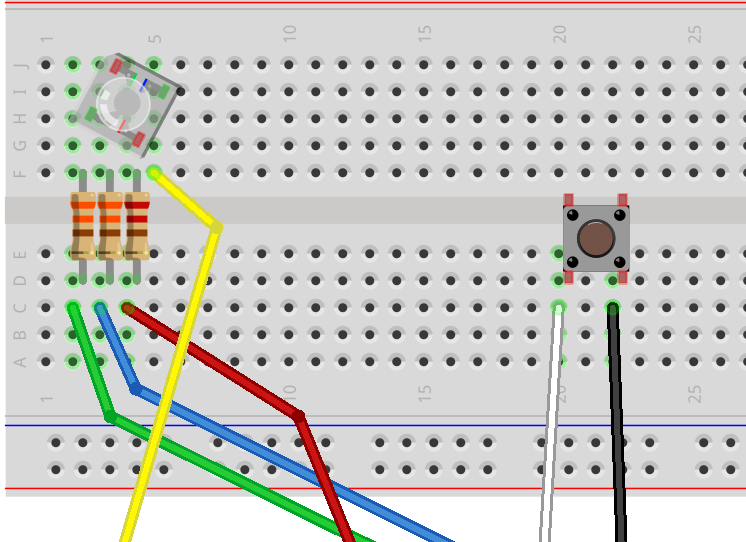
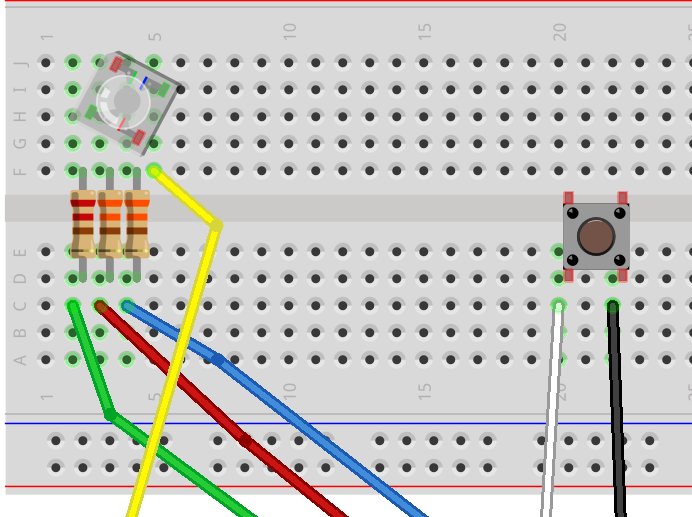
UPDATE:  Cleanup images/instructions

diff --git a/raspberry-pi/iot-core/ThatPiSample/ThatPiSample/Services/BeaconService.cs b/raspberry-pi/iot-core/ThatPiSample/ThatPiSample/Services/BeaconService.cs
@@ -38,6 +38,8 @@ namespace ThatPiSample.Services
             _watcher = new BluetoothLEAdvertisementWatcher()
             {
                 ScanningMode = BluetoothLEScanningMode.Passive,
+                // EXPLORE: Are there other useful properties here you could set
+                //          to control how sensitive your device is?
             };
             _watcher.Received += Receive_Watcher_Notification;
             _watcher.Stopped += _watcher_Stopped;

diff --git a/raspberry-pi/iot-core/ThatPiSample/README.md b/raspberry-pi/iot-core/ThatPiSample/README.md
@@ -16,8 +16,8 @@ start with the 'Software Geek' path.
 ## Building the Hardware
 Take a moment to review the supplies you received.  You should have the following parts:
 
-* 1 - 220Ω Resistor [larger] (red, red, brown, gold)
-* 2 - 330Ω Resistors [smaller] (orange, orange, brown, gold)
+* 2 - 220Ω Resistors [larger] (red, red, brown, gold)
+* 1 - 330Ω Resistors [smaller] (orange, orange, brown, gold)
 * 1 - Push Button Switch
 * 1 - RGB Led
 * 6 - Male - Female Jumper Wires (various colors)
@@ -40,7 +40,7 @@ When you place the LED into the board, make sure the 'cutoff' corner is pointing
 ![LED on Breadboard](Sketches/Breadboard-lanes.png)
 
 ### Adding the Resistors
-This particular LED has an approximate ratio of 2/3/3 for R/G/B voltage that is available across the three LED diodes (think of this as the brightness of each color).  We're going to use the 220Ω and 330Ω resistors to compensate so each LED diode shines at about the same level.  Tie the 220Ω resistor to the Red leg (the left-most lane), and the two 330Ω resistors to the center two lanes by inserting one end of the resistor into the lowest hole in the lane, and jumping across the gap to the corresponding lane on the bottom of the breadboard.
+This particular LED has an approximate ratio of 2/3/3 for R/G/B voltage that is available across the three LED diodes (think of this as a level of brightness), however, the Green LED is perceived to be much brighter.  So we're going to use the 220Ω and 330Ω resistors to compensate so each LED diode shines at about the same level.  Tie a 220Ω resistor to the Red and Blue lanes (center and right), and the 330Ω resistor to the Green (left most) lane.  Insert one end of the resistor into the lowest hole in the lane, and jump across the gap to the corresponding lane on the bottom of the breadboard.
 
 ![Adding the resistors](Sketches/AddingResistors.png)
 
@@ -80,22 +80,20 @@ No IoT solution would be complete without a software component.  Whether that is
 
 The software does a few things:
 
-* It encodes the 'map' that represents the physical world into something the software can use
 * It utilizes the Bluetooth LE hardware of your Raspberry Pi to detect beacons
-* It indicates to the user (via the LED) how close the beacon of interest is
-* It accepts input from the user to register visiting a beacon (via the push button)
+* It indicates to the user (via the LED) which beacon(s) it can currently 'see'
+* It accepts input from the user to turn beacon scanning on and off (via the push button)
 
-As a software geek, you can choose how much control you want to take from the program.  You
-can decide to change how the software finds beacons, or how it translates the beacon signals
-into physical output for the user to see / hear.  By default, the software will do the following:
+As a software geek, you can choose how much control you want to take from the program.  You can decide to change how the software finds beacons, or how it translates the beacon signals into LED color(s).  By default, the software will do the following:
 
-* When started, the application loads the map and begins scanning for beacons
-* A beacon is selected (randomly) as the current target beacon
-* When a beacon is found, the LED blinks Blue if tracking against a non-target beacon, and Green if tracking against the target beacon
-* The LED blinks faster the closer you move to the target
-* When the Raspberry Pi is within capture distance of the beacon, the LED begins a rainbow light cycle
-* When the LED has 'gone rainbow', clicking the push button captures the current target and selects a new target from the map
-* Once 10 targets are captured, the LED shuts off, indicating your quest is complete, return to the check-in table for more info!
+* When started, the application turns off the LED and waits for the user to press the button
+* When the button is pushed, the software starts scanning for BTLE beacons that it knows about
+* When a beacon is found, it's color is integrated into the current LED color
+* The 'beacon' model is updated to include the detected signal strength of the beacon
+* The LED displays colors that the Raspberry Pi has 'seen' in the last 5 seconds
+* When the button is pressed again, the BTLE scanning stops
+
+The software also has a 'test' interface which can be seen via a connected monitor, or with the 'Windows IoT Remote Client'.  This can be used if you feel that the hardware isn't doing what you expect.
 
 ### Getting the Software
 Go to [The GitHub Repository](https://github.com/bengavin/that-conference-2017/) and click 'Open in Visual Studio'.  This will pull the code onto your local computer, and give you the opportunity to open the 'ThatPiSample' solution.
@@ -113,13 +111,11 @@ Now, from Visual Studio, open the 'ThatPiSample.sln' file, this will open the so
 
 * The 'Assets' folder contains images that are used by the application during runtime, these can be safely ignored, as we're not interested in what the application itself looks like right now.
 
-* The 'Model' folder contains classes that define the application's view of the world.  These classes likely won't need any changes.
+* The 'Models' folder contains classes that define the application's view of the world.  These classes likely won't need any changes.
 
 * The 'Services' folder contains the bulk of the program logic.  If you're going to make changes to the program, it's likely that they'll need to be made here.
 
   * The 'BeaconService' class handles keeping track of the beacons, unless you want to get way down in the weeds, you probably don't need to worry about much in here.
-
-  * The 'GameService' class handles the game loop, and gathering data from and sending control messages to other services in the application.
 
   * The 'LedService' class controls the LEDs, this is where you'll change what pin you plugged your LED hardware into (see the const(s) at the top of the file).
 
@@ -136,24 +132,29 @@ Open the 'MainViewModel' class.  Near the top of this class, you should find som
 For this lab, just uncomment (remove the '//'s) the beacons that you have with your kit.  Each line will look something like this:
 
 ```csharp
-   new Beacon("Pikachu", "01234.123", Colors.Yellow),
+   new Beacon("Pikachu", "01234-123", Colors.Red),
 ```
 
-Pick a color for each beacon that you have, then hit the Build -> Build Solution menu item to verify that your project builds successfully.
+Pick a color for each beacon that you have (Red, Green or Blue), then hit the Build -> Build Solution menu item to verify that your project builds successfully.
 
 ### Taking a Hardware Break
 If you're a 'Software Geek' and have not yet assembled your hardware, now is the time to do it.  Your code won't run without the Raspberry Pi, and it won't do anything interesting if you don't have the hardware hooked up to the Pi, so do that quick and stop back down here when you're ready.
 
 [Be a Hardware Geek](#hardware)
 
-### Making your Changes and Running the Code
-As you look through the code, there are various comments (indicated by '//' or '/* ... */') that talk about
-where changes can be made (or need to be made, depending on your hardware setup).  Once you've made sure
-you're talking to the right pins for the LED/Push Button, you're ready to 'deploy' your code to the
-Raspberry Pi.  Raise your hand and a lab counselor will stop over and help you with this step.  It involves
-hooking your Raspberry Pi up to a network wire and setting up Visual Studio to talk with it.
+### Running the Code
+Once you've made sure you're talking to the right pins for the LED/Push Button, you're ready to 'deploy' your code to the Raspberry Pi.  Raise your hand and a lab counselor will stop over and help you with this step.  It involves hooking your Raspberry Pi up to a network wire and setting up Visual Studio to talk with it.
 
-Once your code is running, go capture the beacon in the corner of the room to test that your setup is working
-properly.  Once that's working, you're off to the races, see you when you return!
+Once your code is running, hitting the push button should start the search for Pokemon, and bringing the different Pokemon 'into view' (out of the lined bag) should change the colors you see.
 
-Oh, and 'Good Luck'!
+Once you've had a chance to get things running, see if you can change something about how the program works, or take some time to explore the code to see how things work!
+
+For example:
+* What happens if you change the resistor positions?
+* What happens if you change resistor values altogether (find a lab counselor to get a variety of resistors to test)?
+* What happens if you start listening for all beacons instead of only the 3 you have?
+* How far away do you have to get before your Pi stops 'seeing' the beacon?
+* Does the distance change depending on what is between the beacon and the Pi?
+* Can you compensate in software to stop 'seeing' beacons that aren't close enough to the Pi?
+  * Hint: Look in the BeaconService for the '_watcher' and see what properties are there
+  
